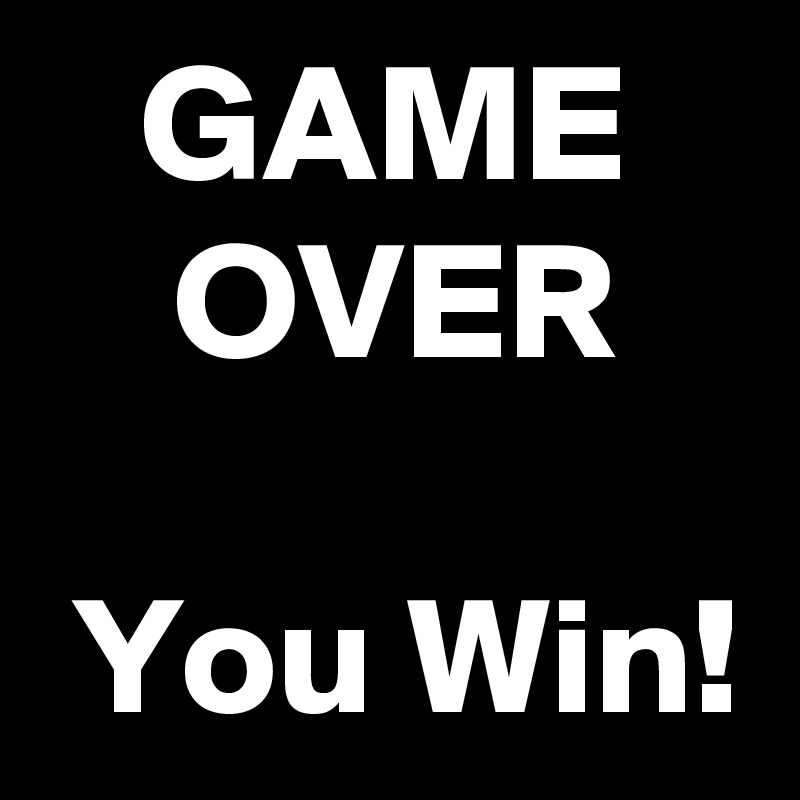
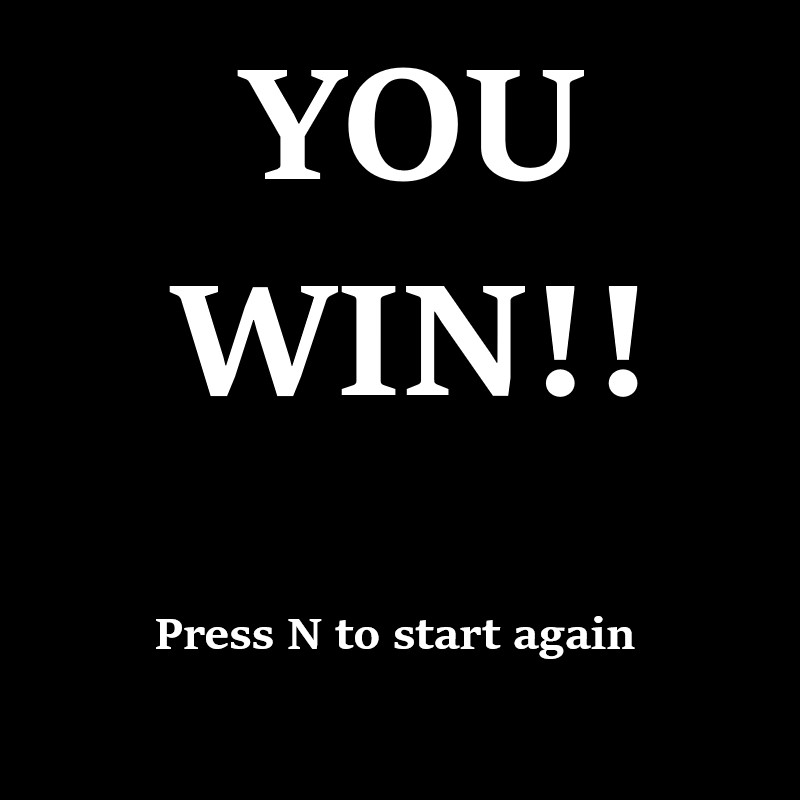
Implementacion 04

Changed region(s): [[0.2188, 0.2812, 0.8125, 0.5], [0.0938, 0.75, 0.9375, 0.9062], [0.1562, 0.0625, 0.7812, 0.25]]

diff --git a/Breaking Bad/src/tarea3/Game.java b/Breaking Bad/src/tarea3/Game.java
@@ -45,7 +45,6 @@ public class Game implements Runnable {
     public int Trucks;                  // to store trucks
     public boolean win = false;         // to send a win message
     public boolean pause;               // to pause the game
-    public int count = 0;               // to count at end game
     public int pauseStun = 0;           // to pause
     private String nombreArchivo = "partida.sf";
     
@@ -209,7 +208,7 @@ public class Game implements Runnable {
         if (getKeyManager().p) {
             if(pauseStun<=0){
                 pause = !pause;
-                pauseStun = 30;
+                pauseStun = 20;
             }
         }
         
@@ -290,9 +289,6 @@ public class Game implements Runnable {
         }
 
         proyectil.tick();
-        if (getKeyManager().p) {
-            pause = (pause) ? false : true;
-        }
     }
 
     /**
@@ -319,12 +315,9 @@ public class Game implements Runnable {
                 g.dispose(); 
                 win = true;
 
-                count++;
-
-                if(count == 100) {
+                if(getKeyManager().n) {
                     vidas = 6;
                     noTrucks = camiones.size();
-                    count = 0;
                     win = false;
                     init();
                 }
@@ -349,12 +342,9 @@ public class Game implements Runnable {
                 bs.show();
                 g.dispose();
 
-                count++;
-
-                if(count == 100) { 
+                if(getKeyManager().n) { 
                     vidas = 6;
                     noTrucks = 50;
-                    count = 0;
                     win = false;
                     init();
                 }
@@ -402,7 +392,7 @@ public class Game implements Runnable {
     }
     
     public String toString(){
-        return (title+" "+width+" "+height+" "+vidas+" "+noTrucks+" "+Trucks+" "+count);
+        return (title+" "+width+" "+height+" "+vidas+" "+noTrucks+" "+Trucks);
     }
     
     public void loadFromString(String[] datos){
@@ -412,7 +402,6 @@ public class Game implements Runnable {
         this.vidas = Integer.parseInt(datos[3]);
         this.noTrucks = Integer.parseInt(datos[4]);
         this.Trucks = Integer.parseInt(datos[5]);
-        this.count = Integer.parseInt(datos[6]);
     }
     
     public void grabarArchivo() throws IOException {

diff --git a/Breaking Bad/src/tarea3/KeyManager.java b/Breaking Bad/src/tarea3/KeyManager.java
@@ -19,6 +19,7 @@ public class KeyManager implements KeyListener {
     public boolean p;       // flag to pause the game
     public boolean g;       // flag to save the game
     public boolean c;       // flag to load the game
+    public boolean n;       // flag to restart the game
 
     private boolean keys[];  // to store all the flags for every key
     
@@ -51,5 +52,6 @@ public class KeyManager implements KeyListener {
         p = keys[KeyEvent.VK_P]||keys[KeyEvent.VK_ENTER]||keys[KeyEvent.VK_SPACE];
         g = keys[KeyEvent.VK_G];
         c = keys[KeyEvent.VK_C];
+        n = keys[KeyEvent.VK_N];
     }
 }
